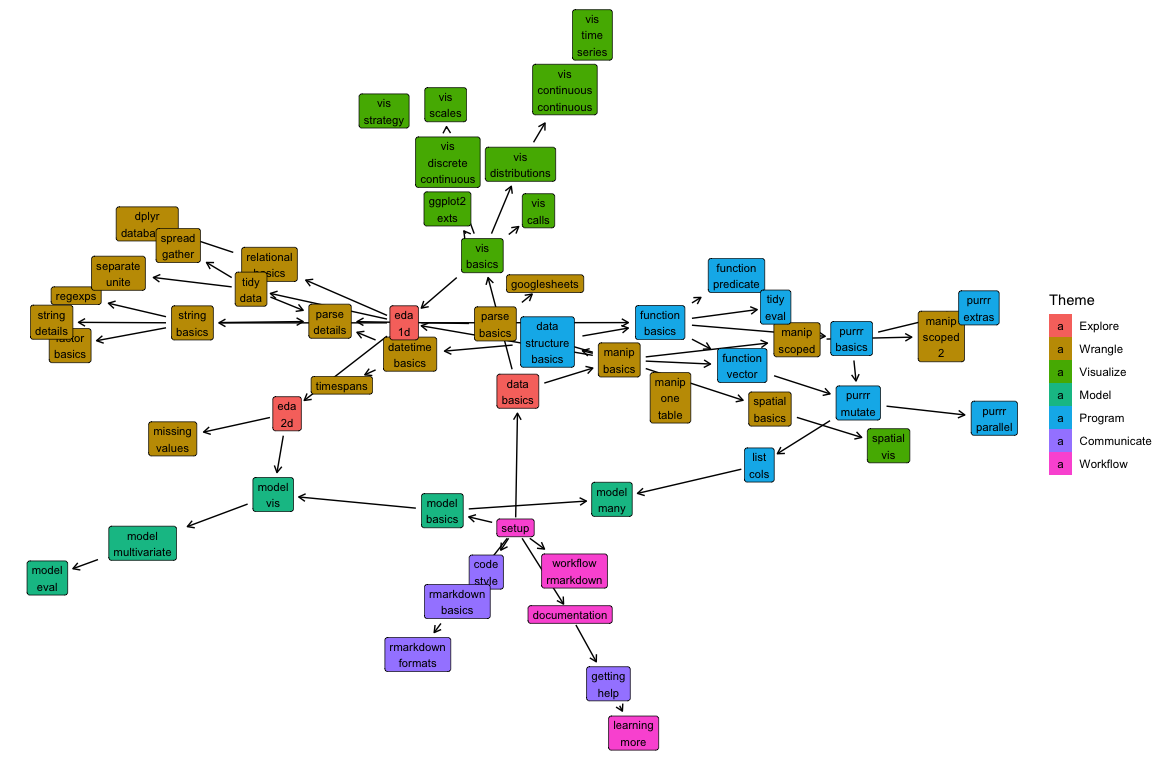
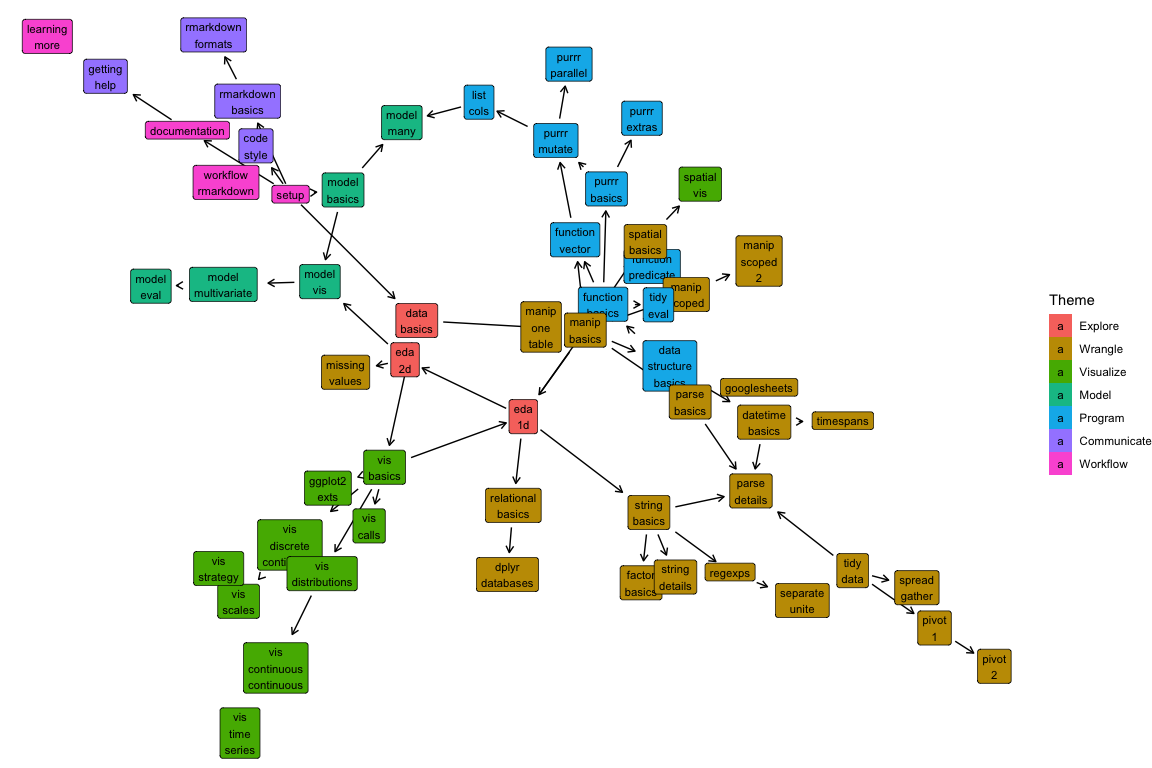
Update for week 1

diff --git a/docs/eda-1d.md b/docs/eda-1d.md
@@ -6,7 +6,7 @@ title: Exploratory data analysis (1D)
 
 # Exploratory data analysis (1D) <small class='explore'>[explore]</small>
 <small>(Builds on: [Visualization basics](vis-basics.md), [Manipulation basics](manip-basics.md))</small>  
-<small>(Leads to: [Exploratory data analysis (2D)](eda-2d.md), [Function basics](function-basics.md), [Essentials of relational data](relational-basics.md), [String basics](string-basics.md), [Tidy data](tidy-data.md))</small>
+<small>(Leads to: [Exploratory data analysis (2D)](eda-2d.md), [Function basics](function-basics.md), [Essentials of relational data](relational-basics.md), [String basics](string-basics.md))</small>
 
 
 Exploratory data analysis is partly a set of techniques, but is mostly a mindset: you want to remain open to what the data is telling you.

diff --git a/docs/tidy-data.md b/docs/tidy-data.md
@@ -5,8 +5,7 @@ title: Tidy data
 <!-- Generated automatically from tidy-data.yml. Do not edit by hand -->
 
 # Tidy data <small class='wrangle'>[wrangle]</small>
-<small>(Builds on: [Exploratory data analysis (1D)](eda-1d.md))</small>  
-<small>(Leads to: [Parsing details](parse-details.md), [Separate and unite](separate-unite.md), [Spreading and gathering](spread-gather.md))</small>
+<small>(Leads to: [Parsing details](parse-details.md), [Basic pivoting](pivot-1.md), [Separate and unite](separate-unite.md), [Spreading and gathering](spread-gather.md))</small>
 
 A __tidy__ data frame is a data frame (or tibble) where the variables in
 columns, and the cases (or observations) are in the rows. All the of the

diff --git a/docs/pivot-1.md b/docs/pivot-1.md
@@ -1,0 +1,19 @@
+---
+title: Basic pivoting
+---
+
+<!-- Generated automatically from pivot-1.yml. Do not edit by hand -->
+
+# Basic pivoting <small class='wrangle'>[wrangle]</small>
+<small>(Builds on: [Tidy data](tidy-data.md))</small>  
+<small>(Leads to: [Advanced pivoting](pivot-2.md))</small>
+
+Much of the data you'll encounter won't be tidy, and it will be your task to
+tidy it. tidyr's pivot functions, `pivot_longer()` and `pivot_wider()` will
+be two of the most important tools in your tidying toolbox. 
+
+## Readings
+
+  * [Basic pivoting](https://dcl-wrangle.stanford.edu/pivot_basic.html) [wrangle-5]
+
+

diff --git a/docs/index.md b/docs/index.md
@@ -44,14 +44,20 @@ title: Theme index
 </tr>
 <tr>
 <td></td>
+  <td colspan="6"></td>
+  <td colspan="6"><a class="workflow" href="documentation.html">Documentation</a></td>
+</tr>
+<tr>
+<td></td>
   <td colspan="5"></td>
   <td colspan="6"><a class="communicate" href="code-style.html">Code style</a></td>
   <td colspan="1"></td>
 </tr>
 <tr>
 <td></td>
-  <td colspan="6"></td>
-  <td colspan="6"><a class="workflow" href="documentation.html">Documentation</a></td>
+  <td colspan="1"></td>
+  <td colspan="6"><a class="wrangle" href="tidy-data.html">Tidy data</a></td>
+  <td colspan="5"></td>
 </tr>
 <tr>
 <td></td>

diff --git a/docs/pivot-2.md b/docs/pivot-2.md
@@ -1,0 +1,18 @@
+---
+title: Advanced pivoting
+---
+
+<!-- Generated automatically from pivot-2.yml. Do not edit by hand -->
+
+# Advanced pivoting <small class='wrangle'>[wrangle]</small>
+<small>(Builds on: [Basic pivoting](pivot-1.md))</small>
+
+`pivot_longer()` and `pivot_wider()` are very flexible, and can handle many
+varieties of non-tidy data sets. In this unit, you'll dive deeper into pivoting
+and learn how to apply the pivot functions to more complex tidying tasks.
+
+## Readings
+
+  * [Advanced pivoting](https://dcl-wrangle.stanford.edu/pivot_advanced.html) [wrangle-6]
+
+
